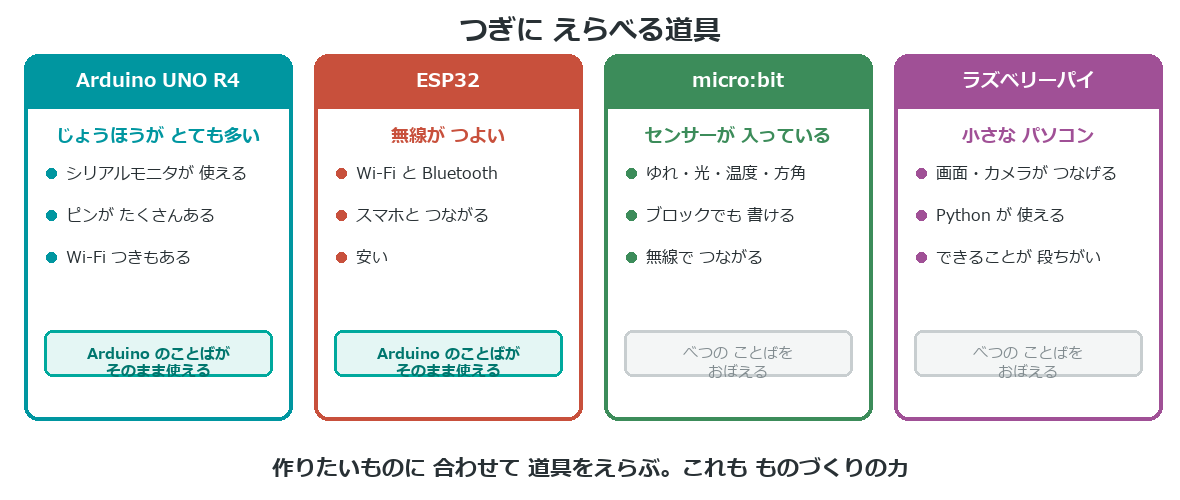
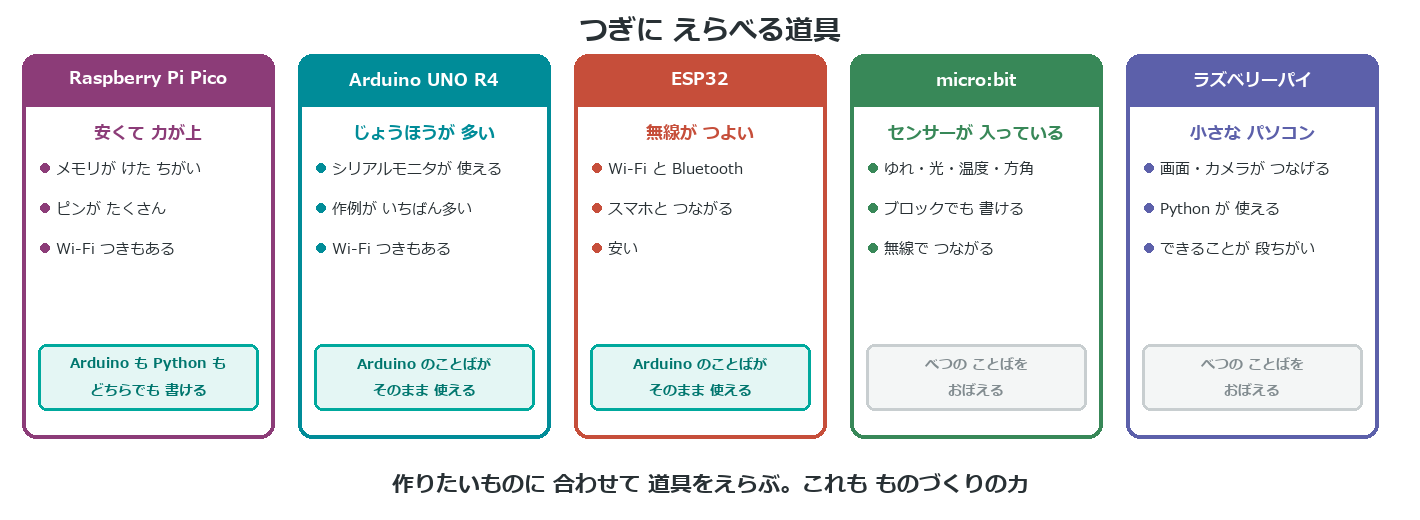
p8 の「つぎに えらべる道具」に Raspberry Pi Pico を追加（5つに）
Pico は UIAPduino からの次の一歩としていちばん自然な選択肢だった。
安くて、メモリもピンもけた違いに増え、しかも Arduino のことばが使える。

5つ並べても1枚に収まった（カード252px・キャンバス1420px）。

並び順は UIAPduino からの「近さ」:
  Pico → UNO R4 → ESP32 → micro:bit → ラズベリーパイ

ことばの対応を3段階に分けて、下部のバッジで示した:
- **Arduino も Python も どちらでも書ける** … Pico
- **Arduino のことばが そのまま使える** … UNO R4・ESP32
- **べつのことばを おぼえる** … micro:bit・ラズベリーパイ

Pico だけ別扱いにしたのは、MicroPython と Arduino の両対応が
この板の大きな特徴で、「次に何を覚えるか」の判断に直結するため。

本文の「書いたプログラムはムダにならない」にも Pico を加えた。

Changed region(s): [[0.0, 0.03, 1.0, 0.87], [0.2136, 0.9, 0.7627, 0.96]]

diff --git a/docs/p8_next/index.html b/docs/p8_next/index.html
@@ -73,7 +73,7 @@
 ---
 
 # 書いたプログラムは ムダにならない
-**UNO R4** と **ESP32** は、**Arduino のことば**で書けるよ。
+**Pico**・**UNO R4**・**ESP32** は、**Arduino のことば**で書けるよ。
 
 - `pinMode` `digitalWrite` `analogRead` … そのまま使える
 - `for` `if` `関数` … 考え方は どのマイコンでも同じ
